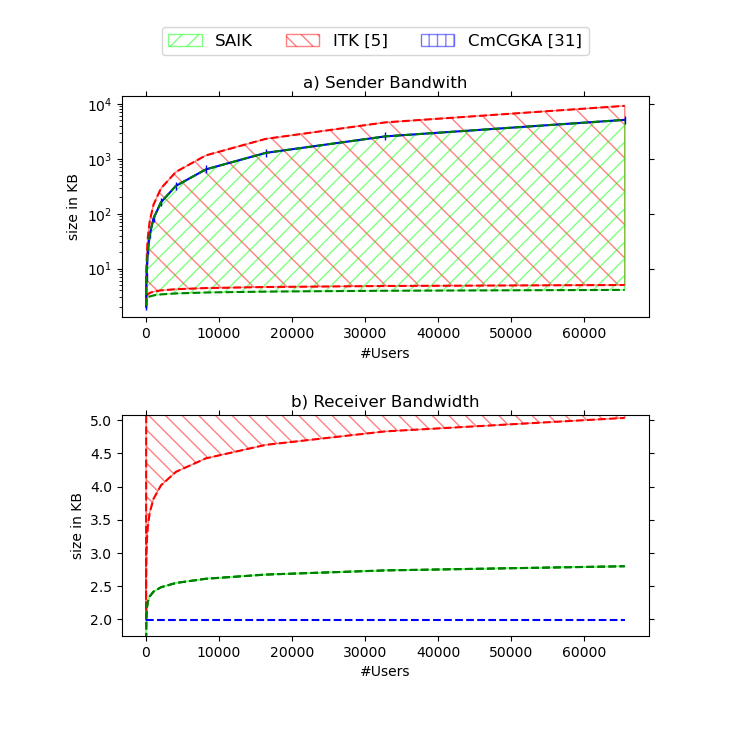
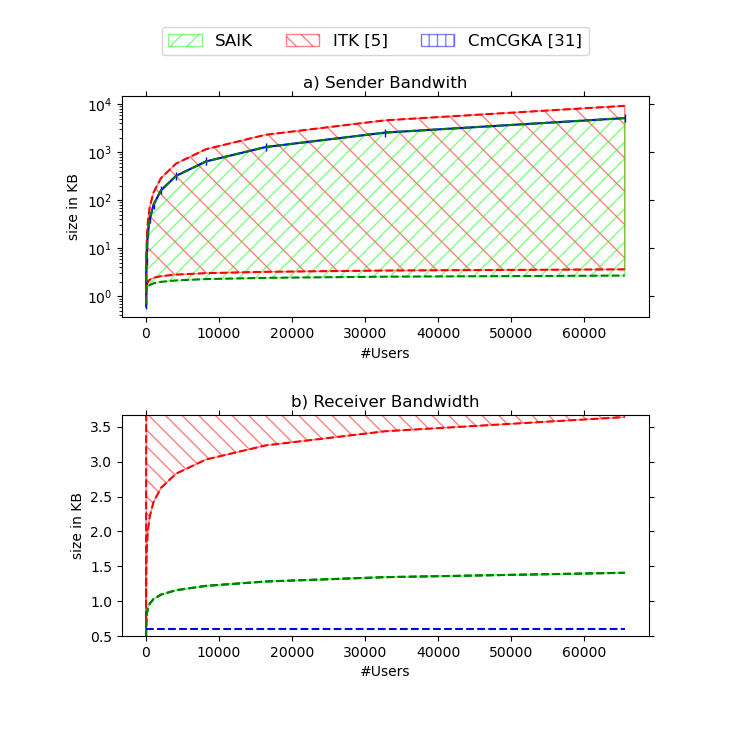
Updated numbers and plot.

diff --git a/CCS/eval.tex b/CCS/eval.tex
@@ -138,14 +138,15 @@ realistic deployments. Therefore, we compare the minimum and maximum bandwidth o
       \hline
       Signature & 1024B \\
       \hline
-      Header & 1.66KB \\
+      Header & 2184B \\
       \hline
       \pkSize & 512B \\
       \hline
       \ctxSize & 512B \\
       \hline
     \end{tabulary}
-    \caption{Bitsizes used to generate \cref{fig:plots}.}
+    \caption{Bitsizes used to generate \cref{fig:plots}. The header consists of the sender's id, the epoch id and some
+      authenticated data required by the protocol.}
     \label{tab:bitsizes}
   \end{minipage}
 \end{table*}
@@ -157,9 +158,9 @@ as indicated in \cref{tab:bitsizes}. This is further visualized in \cref{fig:plo
 %
 We highlight some interesting observations. % features of the plots. %For concreteness, we fix $N = 10K$ users.
 
-For senders, \saik is always at least as good as the other protocols. First, it requires between $83\%$ and only $55\%$ of the bandwidth of \protITK (due to the use of mmPKE). Second, the bandwidth of \protCMPKE is the same as the worst-case (depending on the execution history) bandwidth of \saik. In the best case, however, \saik needs as little as $0.45\%$ of the bandwidth, e.g. in a
-group of $10K$ members it can save as much as $\sim 780$KB out of total
-$783$KB.
+For senders, \saik is always at least as good as the other protocols. First, it requires between $75\%$ and only $55\%$ of the bandwidth of \protITK (due to the use of mmPKE). Second, the bandwidth of \protCMPKE is the same as the worst-case (depending on the execution history) bandwidth of \saik. In the best case, however, \saik needs as little as $0.29\%$ of the bandwidth, e.g. in a
+group of $10K$ members it can save as much as $\sim 779$KB out of total
+$781$KB.
 
 
 % Even for senders,
@@ -178,8 +179,8 @@ $783$KB.
 % Huffman vs Merkel, cumulative server : % improve is 0% -> 5% (though proof sizes improve by up to %50)
 
 For receivers, \protITK is \emph{overwhelmingly} worse than \saik and \protCMPKE. For
-example, \saik receivers (on average) need between $60\%$ (best-case execution) to about $.05\%$ (worst-case execution) of \protITK's. On the other hand, \protCMPKE is (unsurprisingly) the best for receivers.  \saik requires up to $137\%$ of \protCMPKE's bandwidth, i.e. an
-increase of $\sim 0.75$KB from $\sim 2$KB for a group of $10K$ members.
+example, \saik receivers (on average) need between $40\%$ (best-case execution) to about $.08\%$ (worst-case execution) of \protITK's. On the other hand, \protCMPKE is (unsurprisingly) the best for receivers.  \saik requires up to $200\%$ of \protCMPKE's bandwidth, i.e. an
+increase of $\sim 0.6$KB from $\sim 1.2$KB for a group of $10K$ members.
 
 %On the receiver side, \protITK is \emph{overwhelmingly} worse than \saik. For
 %example, \saik receivers (on average) need between $60\%$(full tree) to about $.05\%$(blank tree) of \protITK's

diff --git a/plots/plot_usenix.py b/plots/plot_usenix.py
@@ -21,7 +21,7 @@ MLSCT0 = 0
 MLSCTI = 640
 MLSPK = 512
 MLSCTX = 512
-HEADER = 1700*8
+HEADER = 2184
 
 
 CONVERSION_FACTOR = 8 * 1024
@@ -166,7 +166,7 @@ if __name__ == "__main__":
     ax2.fill_between(rng, mlsRecBest, mlsRecWorst, fc = "#ffffff00", ec="#ff00007f", hatch = "\\\\")
     ax2.fill_between(rng, bgmRecBest, bgmRecWorst, fc = "#ffffff00", ec="#00ff007f", hatch = "//")
     
-    ax2.set_ylim([1.75, mlsRecBest[-1] * 1.01])
+    ax2.set_ylim([0.5, mlsRecBest[-1] * 1.01])
     ax2.tick_params("both", reset = True)
     ax2.set_xlabel("#Users")
     ax2.set_ylabel("size in KB")
@@ -199,3 +199,36 @@ if __name__ == "__main__":
                ncol=4, bbox_to_anchor=(.5, .975), fontsize=12)    
     
     plt.savefig("Final_Figures_Avg")
+
+
+    senderPercBest = [x / y * 100 for (x,y) in zip(bgmSenderBest, mlsSenderDataBest)]
+    print("Sender Best Percentage")
+    print(senderPercBest)
+
+    senderPercWorst = [x / y * 100 for (x,y) in zip(bgmSenderWorst, mlsSenderDataWorst)]
+    print("Sender Worst Percentage")
+    print(senderPercWorst)
+
+    senderPercSaikCmPKE = [x / y * 100 for (x,y) in zip(bgmSenderBest, cmpkeSender)]
+    print("Sender cmpke Percentage Best")
+    print(senderPercSaikCmPKE)
+    print()
+
+    print(bgmSenderBest)
+    print(cmpkeSender)
+    
+    print()
+    
+    percRecBest = [(x / y) * 100 for (x,y) in zip(bgmRecBest[2:], mlsRecBest[2:])]
+    print("Receiver Best Percentage")
+    print(percRecBest)
+
+    percRecWorst = [(x / y) * 100 for (x,y) in zip(bgmRecWorst[2:], mlsRecWorst[2:])]
+    print("Receiver Worst Percentage")
+    print(percRecWorst)
+
+    print(bgmRecBest)
+    print(cmpkeRecBest)
+    recPercSaikCmPKE = [x / y * 100 for (x,y) in zip(bgmRecBest[2:], cmpkeRecBest[2:])]
+    print("Receiver cmpke Percentage Best")
+    print(recPercSaikCmPKE)    
